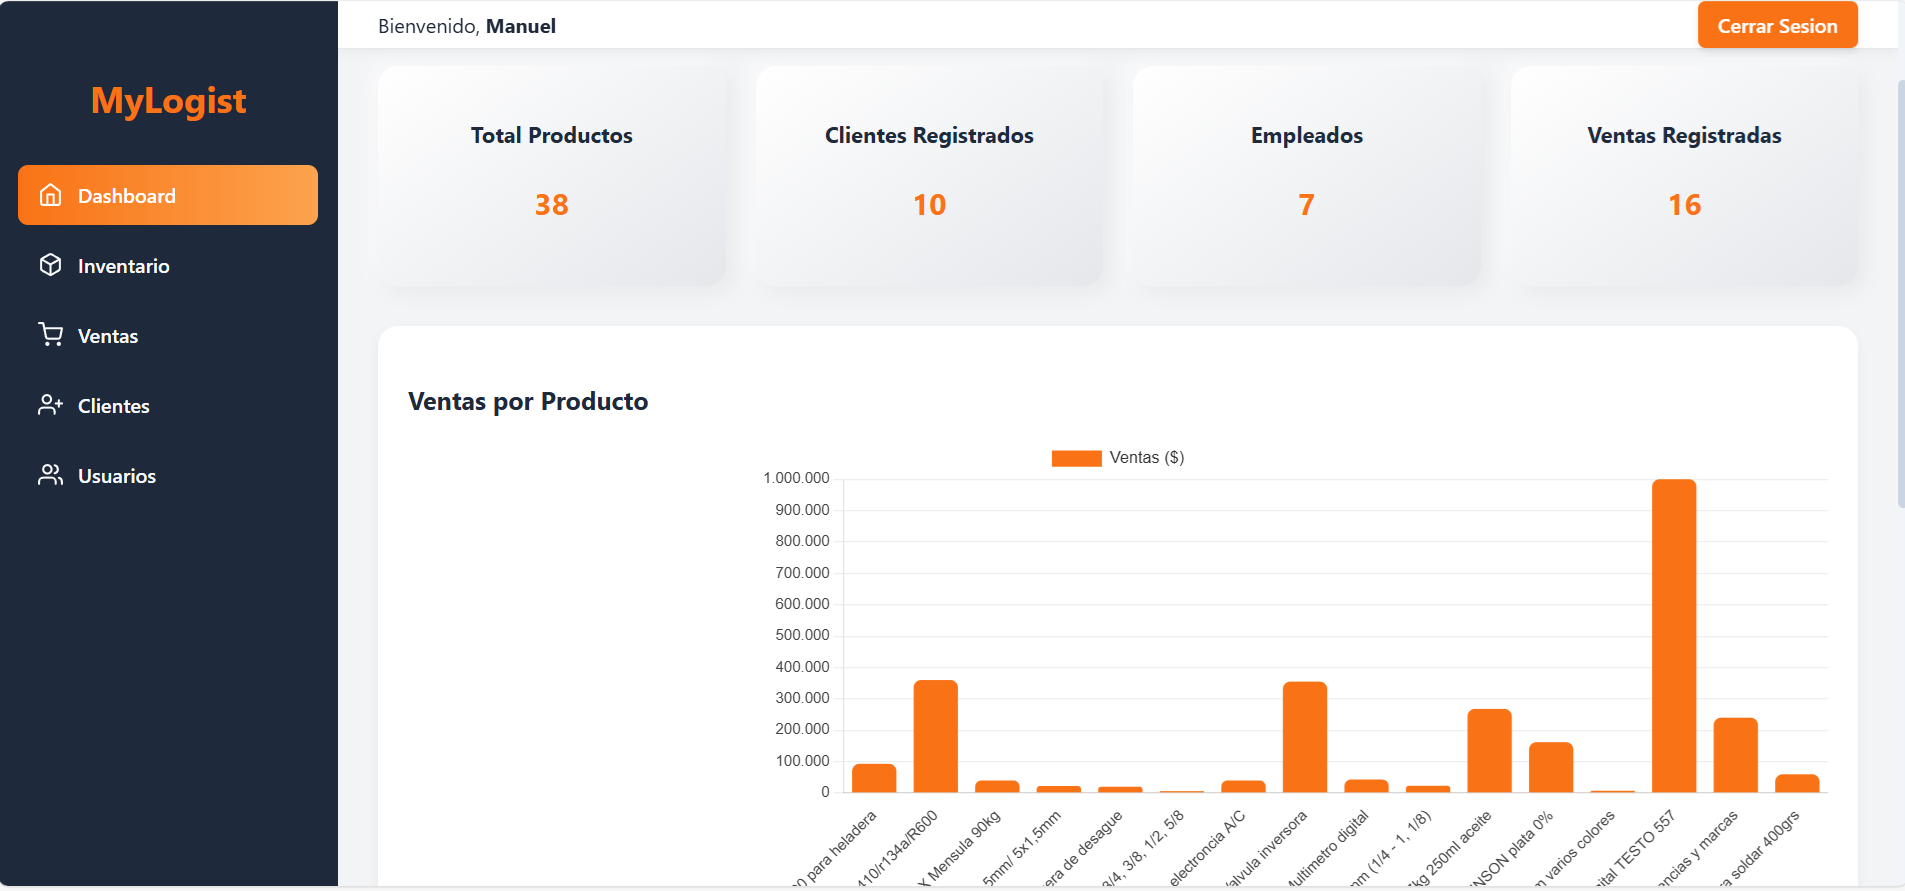
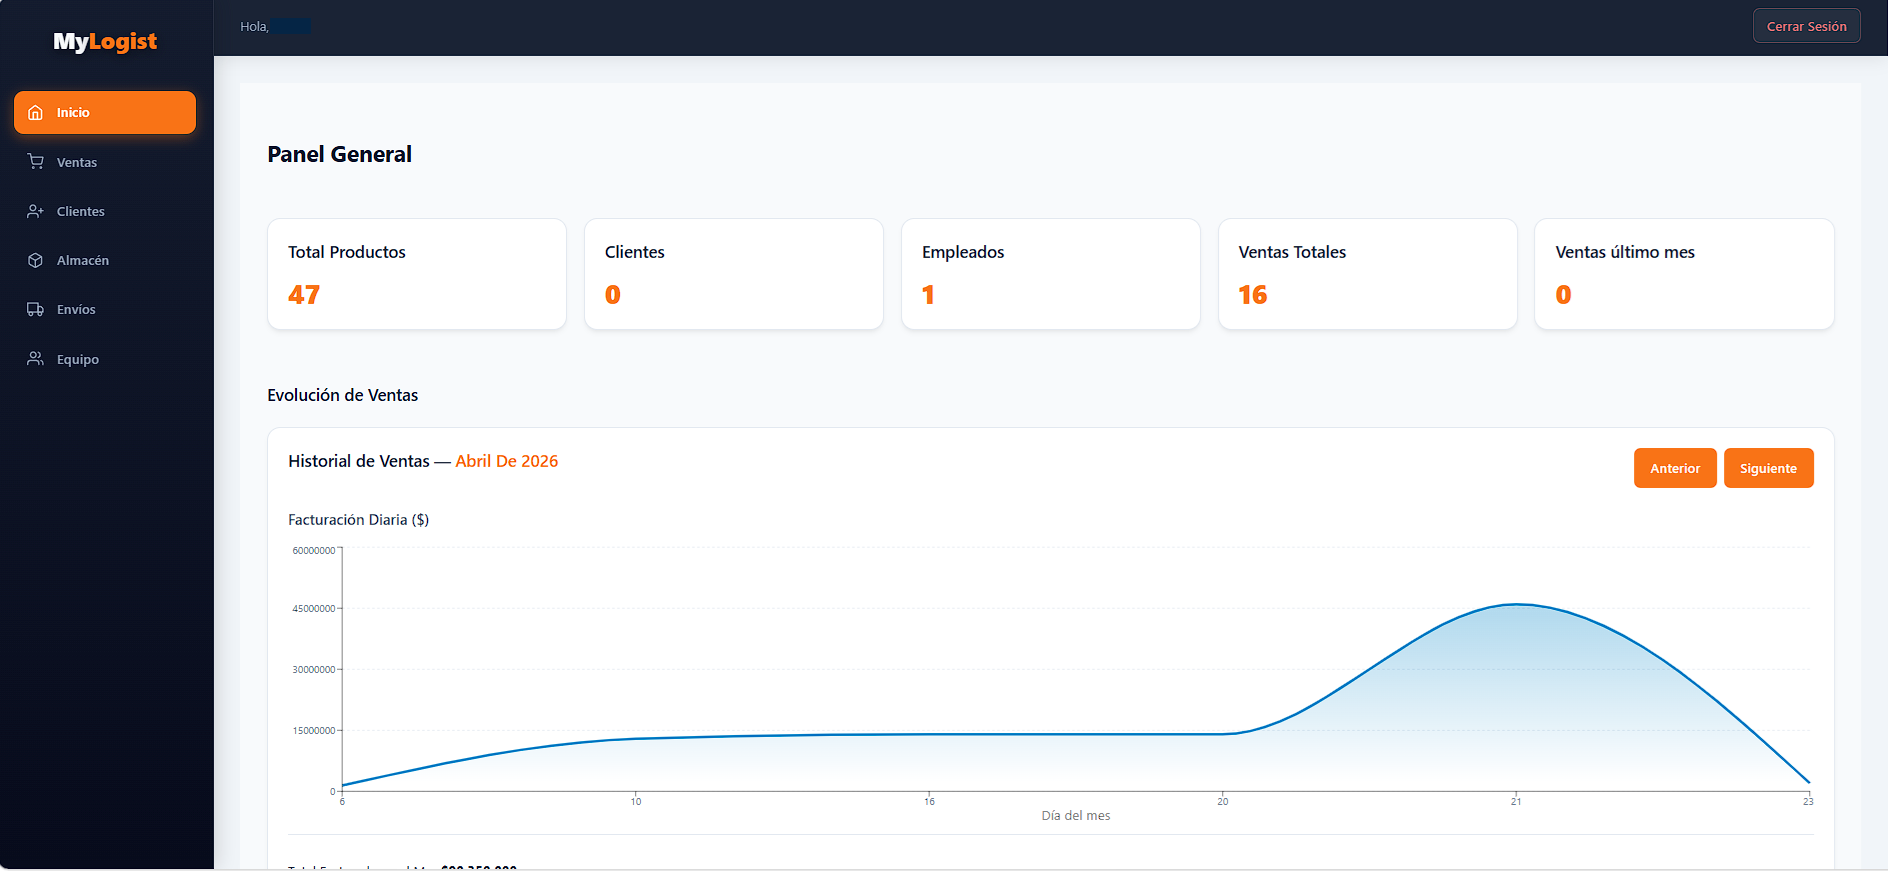
Update certificates

diff --git a/src/components/Certificates.jsx b/src/components/Certificates.jsx
@@ -1,100 +1,122 @@
-import React, { useState } from "react";
+import React, { useState, useRef } from "react";
 import { motion, AnimatePresence } from "framer-motion";
 
 const certificados = [
-  {
-    id: 1,
-    title: "SQL y Bases de Datos",
-    institucion: "Coderhouse – 2024",
-    image: "/Certificado_SQL.jpeg",
-  },
-  {
-    id: 2,
-    title: "HTML y CSS",
-    institucion: "Oracle Next Education – 2024",
-    image: "/Certificado_HTMLCSS.jpeg",
-  },
-  {
-    id: 4,
-    title: "JavaScript",
-    institucion: "Oracle Next Education – 2024",
-    image: "/Certificado_Javascript.jpeg",
-  },
-  {
-    id: 5,
-    title: "JAVA",
-    institucion: "Oracle Next Education – 2024",
-    image: "/Certificado_JAVa.jpeg",
-  },
-  {
-    id: 6,
-    title: "Java",
-    institucion: "Oracle Next Education – 2024",
-    image: "/Certificado_JAVA2.jpeg",
-  },
-  {
-    id: 7,
-    title: "Git",
-    institucion: "Oracle Next Education – 2024",
-    image: "/Certificado_Git.jpeg",
-  },
-  {
-    id: 8,
-    title: "Habilidades Blandas",
-    institucion: "Oracle Next Education – 2024",
-    image: "/Certificado_HabilidadesBlandas.jpeg",
-  },
-  {
-    id: 9,
-    title: "HTML",
-    institucion: "UBA Rojas – 2021",
-    image: "/Certificado_HTML.jpeg",
-  },
+  { id: 1, title: "SQL y Bases de Datos", institucion: "Coderhouse – 2024", image: "/Certificado_SQL.jpeg" },
+  { id: 2, title: "HTML y CSS", institucion: "Oracle Next Education – 2024", image: "/Certificado_HTMLCSS.jpeg" },
+  { id: 4, title: "JavaScript", institucion: "Oracle Next Education – 2024", image: "/Certificado_Javascript.jpeg" },
+  { id: 5, title: "JAVA", institucion: "Oracle Next Education – 2024", image: "/Certificado_JAVa.jpeg" },
+  { id: 6, title: "Java", institucion: "Oracle Next Education – 2024", image: "/Certificado_JAVA2.jpeg" },
+  { id: 7, title: "Git", institucion: "Oracle Next Education – 2024", image: "/Certificado_Git.jpeg" },
+  { id: 8, title: "Habilidades Blandas", institucion: "Oracle Next Education – 2024", image: "/Certificado_HabilidadesBlandas.jpeg" },
+  { id: 9, title: "HTML", institucion: "UBA Rojas – 2021", image: "/Certificado_HTML.jpeg" },
+  { id: 10, title: "Clean_Code", institucion: "UDEMY - 2026", image: "/public/CertificadoCleanCODE.png" },
+  { id: 11, title: "Git", institucion: "UDEMY - 2026", image: "/public/CertificadoGit.png" },
+  { id: 12, title: "Java", institucion: "UDEMY - 2026", image: "/public/CertificadoPatronesDiseño.png" },
+  { id: 13, title: "PLSQL", institucion: "UDEMY - 2026", image: "/public/CertificadoPLSQL.png" },
+  { id: 14, title: "SCRUM", institucion: "UDEMY - 2026", image: "/public/CertificadoSCRUM.png" },
+  { id: 15, title: "Swagger and OpenAPI", institucion: "UDEMY - 2026", image: "/public/CertificadoSwagger.png" },
+  { id: 16, title: "UnitTest", institucion: "UDEMY - 2026", image: "/public/CertificadoUnitTest.png" },
+  { id: 17, title: "Habilidades Blandas", institucion: "Oracle Next Education – 2024", image: "/public/aprender.jpg" },
+  { id: 18, title: "JAVA", institucion: "Oracle Next Education – 2024", image: "/public/certificado challenge encriptador de texto completado.jpg" },
+  { id: 19, title: "JavaScript", institucion: "Oracle Next Education – 2024", image: "/public/Certificado finalizacion Javascript.jpg" },
+  { id: 20, title: "Habilidades Blandas", institucion: "Oracle Next Education – 2024", image: "/public/certificado formacion desarrollo personal.png" },
+  { id: 21, title: "Frontend", institucion: "Oracle Next Education – 2024", image: "/public/Certificado HTML y CSS Alura.png" },
+  { id: 22, title: "Frontend", institucion: "Oracle Next Education – 2024", image: "/public/Certificado HTMLCSS responsiv.jpg" },
+  { id: 23, title: "Java", institucion: "Oracle Next Education – 2024", image: "/public/Certificado JAVA.png" },
+  { id: 24, title: "Habilidades Blandas", institucion: "Oracle Next Education – 2024", image: "/public/foco.png" },
+  { id: 25, title: "Habilidades Blandas", institucion: "Oracle Next Education – 2024", image: "/public/habitos.png" },
+  { id: 26, title: "Java", institucion: "Oracle Next Education – 2024", image: "/public/JAVA listas y colecciones de datos.png" },
+  { id: 27, title: "Java", institucion: "Oracle Next Education – 2024", image: "/public/JAVA, spring.jpg" },
+  { id: 28, title: "Java", institucion: "Oracle Next Education – 2024", image: "/public/JAVA_conversorDeMonedas.jpg" },
+  { id: 29, title: "Frontend", institucion: "Universidad Tecnológica Nacional Ricardo Rojas– 2024", image: "/public/CSSuba.png" },
+  { id: 30, title: "Frontend", institucion: "Universidad Tecnológica Nacional Ricardo Rojas– 2024", image: "/public/Javascript.png" },
 ];
 
 const Certificados = () => {
   const [selected, setSelected] = useState(null);
+  const carouselRef = useRef(null);
+
+  // Función para mover el carrusel
+  const scroll = (direction) => {
+    if (carouselRef.current) {
+      const { scrollLeft, clientWidth } = carouselRef.current;
+      // Desplaza el equivalente a casi todo el ancho visible
+      const scrollAmount = clientWidth * 0.8;
+      carouselRef.current.scrollTo({
+        left: direction === "left" ? scrollLeft - scrollAmount : scrollLeft + scrollAmount,
+        behavior: "smooth",
+      });
+    }
+  };
 
   return (
     <section
       id="certificados"
-      className="py-20 px-6 md:px-20 bg-[#0d1117] text-center"
+      className="py-20 bg-[#0d1117] text-center overflow-hidden"
     >
-      <h3 className="text-2xl text-gray-400 mb-2">Logros</h3>
-      <h2 className="text-4xl font-bold bg-gradient-to-r from-blue-400 via-purple-400 to-orange-400 bg-clip-text text-transparent mb-12">
-        Mis certificados
-      </h2>
+      <div className="px-6 md:px-20 mb-12">
+        <h3 className="text-2xl text-gray-400 mb-2">Logros</h3>
+        <h2 className="text-4xl font-bold bg-gradient-to-r from-blue-400 via-purple-400 to-orange-400 bg-clip-text text-transparent">
+          Mis certificados
+        </h2>
+      </div>
 
-      <div className="grid sm:grid-cols-2 md:grid-cols-3 gap-10 max-w-6xl mx-auto">
-        {certificados.map((cert) => (
-          <motion.div
-            key={cert.id}
-            whileHover={{
-              scale: 1.05,
-              boxShadow: "0 0 25px rgba(249, 115, 22, 0.4)",
-            }}
-            transition={{ type: "spring", stiffness: 250, damping: 15 }}
-            className="relative bg-[#161b22] border border-gray-800 rounded-xl overflow-hidden cursor-pointer group"
-            onClick={() => setSelected(cert)}
-          >
-            <div className="overflow-hidden">
-              <motion.img
-                src={cert.image}
-                alt={cert.title}
-                className="w-full h-64 object-cover object-top transform group-hover:scale-110 transition-transform duration-500"
-              />
-            </div>
+      {/* Contenedor relativo para posicionar los botones */}
+      <div className="relative group w-full px-4 md:px-12">
+        
+        {/* Botón Izquierda */}
+        <button
+          onClick={() => scroll("left")}
+          className="absolute left-2 top-1/2 -translate-y-1/2 z-10 bg-gray-900/80 hover:bg-gray-800 text-white w-12 h-12 flex items-center justify-center rounded-full opacity-0 group-hover:opacity-100 transition-opacity duration-300 hidden md:flex shadow-[0_0_15px_rgba(249,115,22,0.3)] border border-gray-700"
+        >
+          &#10094;
+        </button>
+
+        {/* Contenedor del Carrusel (Ahora con 3 filas en PC y 2 en móvil) */}
+        <div
+          ref={carouselRef}
+          className="grid grid-rows-2 md:grid-rows-3 grid-flow-col gap-6 overflow-x-auto py-4 snap-x snap-mandatory w-full [&::-webkit-scrollbar]:hidden [-ms-overflow-style:none] [scrollbar-width:none]"
+          style={{ gridAutoColumns: "280px" }}
+        >
+          {certificados.map((cert) => (
             <motion.div
-              className="absolute inset-0 bg-gradient-to-br from-orange-500/10 via-transparent to-transparent opacity-0 group-hover:opacity-100 transition-opacity duration-500 pointer-events-none"
-            />
-            <div className="p-5 text-left">
-              <h3 className="text-xl font-semibold text-white mb-1">
-                {cert.title}
-              </h3>
-              <p className="text-gray-400 text-sm">{cert.institucion}</p>
-            </div>
-          </motion.div>
-        ))}
+              key={cert.id}
+              whileHover={{
+                scale: 1.05,
+                boxShadow: "0 0 20px rgba(249, 115, 22, 0.4)",
+              }}
+              transition={{ type: "spring", stiffness: 250, damping: 15 }}
+              className="relative bg-[#161b22] border border-gray-800 rounded-xl overflow-hidden cursor-pointer group/card snap-center"
+              onClick={() => setSelected(cert)}
+            >
+              <div className="overflow-hidden">
+                <motion.img
+                  src={cert.image}
+                  alt={cert.title}
+                  className="w-full h-40 object-cover object-top transform group-hover/card:scale-110 transition-transform duration-500"
+                />
+              </div>
+              <motion.div
+                className="absolute inset-0 bg-gradient-to-br from-orange-500/10 via-transparent to-transparent opacity-0 group-hover/card:opacity-100 transition-opacity duration-500 pointer-events-none"
+              />
+              <div className="p-4 text-left">
+                <h3 className="text-lg font-semibold text-white mb-1 truncate">
+                  {cert.title}
+                </h3>
+                <p className="text-gray-400 text-xs truncate">{cert.institucion}</p>
+              </div>
+            </motion.div>
+          ))}
+        </div>
+
+        {/* Botón Derecha */}
+        <button
+          onClick={() => scroll("right")}
+          className="absolute right-2 top-1/2 -translate-y-1/2 z-10 bg-gray-900/80 hover:bg-gray-800 text-white w-12 h-12 flex items-center justify-center rounded-full opacity-0 group-hover:opacity-100 transition-opacity duration-300 hidden md:flex shadow-[0_0_15px_rgba(249,115,22,0.3)] border border-gray-700"
+        >
+          &#10095;
+        </button>
       </div>
 
       {/* Modal */}
@@ -114,7 +136,6 @@ const Certificados = () => {
               exit={{ scale: 0.8 }}
               onClick={(e) => e.stopPropagation()}
             >
-              {/* Botón de cierre */}
               <button
                 onClick={() => setSelected(null)}
                 className="absolute top-3 right-3 text-white bg-gray-800/50 hover:bg-gray-800/80 rounded-full w-8 h-8 flex items-center justify-center font-bold text-lg z-10"
@@ -122,7 +143,6 @@ const Certificados = () => {
                 ×
               </button>
 
-              {/* Título */}
               <div className="p-4 text-center border-b border-gray-700">
                 <h3 className="text-xl font-semibold text-white">
                   {selected.title}
@@ -130,7 +150,6 @@ const Certificados = () => {
                 <p className="text-gray-400 text-sm">{selected.institucion}</p>
               </div>
 
-              {/* Imagen */}
               <motion.img
                 src={selected.image}
                 alt={selected.title}

diff --git a/src/components/Hero.jsx b/src/components/Hero.jsx
@@ -26,12 +26,12 @@ const Hero = () => {
         transition={{ duration: 0.9, delay: 0.2 }}
         className="text-2xl md:text-3xl mt-4 text-gray-300"
       >
-        Desarrollador Web & Analista SQL
+        Desarrollador Java | FullStack & Analista SQL
       </motion.h2>
 
       <p className="mt-6 text-gray-400 max-w-md">
-        Apasionado por el desarrollo fullstack, la optimización de bases de datos
-        y las soluciones creativas para la web moderna.
+        Apasionado por el desarrollo de software fullstack, la optimización de bases de datos
+        y las soluciones creativas para la web y aplicaciones modernas.
       </p>
 
       